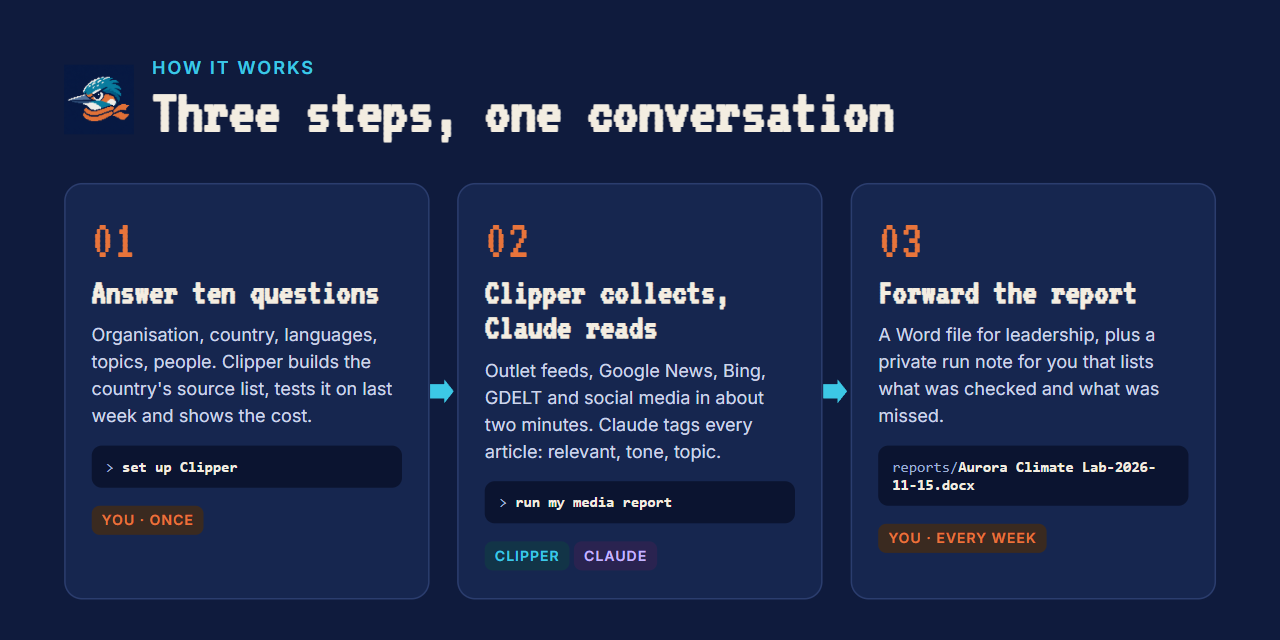
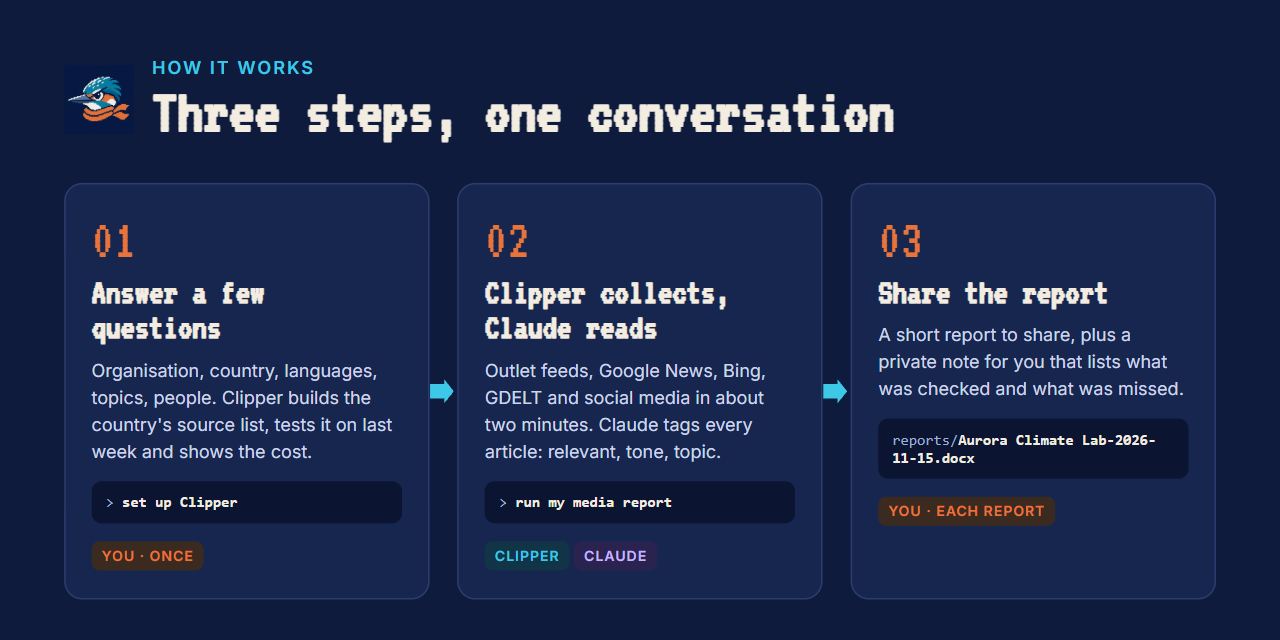
One report format for everyone; README updated for 1.5
- Setup no longer asks who reads the report: one format (figures first, a
  short summary, coverage by topic), as in the baseline report
- Foreign outlets show their country in the heading
- README: sitemaps in the source list, longer reports keep earlier weeks,
  workflow graphic without the readers question or leadership wording

Changed region(s): [[0.0625, 0.4375, 0.3125, 0.9062], [0.6875, 0.4375, 0.9375, 0.875]]

diff --git a/src/clipper/layout.py b/src/clipper/layout.py
@@ -314,6 +314,9 @@ def build(d: ReportData, guard=lambda s: s) -> list[Block]:
             return (best[1], -sum(len(u) for u in units), best[2])
 
         for outlet, units in sorted(by_heading.items(), key=order_key):
+            origin = where_from(units[0][0], d.tags[units[0][0].id], p, tiers)
+            if origin not in ("home", "unknown") and len({i.outlet for u in units for i in u}) == 1:
+                outlet = f"{outlet} ({countries.name(origin)})"
             blocks.append(Block("outlet", [Run(outlet, bold=True)]))
             units.sort(key=lambda u: u[0].published_at, reverse=True)
             blocks += [_bullet(u, d, guard) for u in units]

diff --git a/tests/test_plugin_layout.py b/tests/test_plugin_layout.py
@@ -94,7 +94,7 @@ def test_setup_reports_english_only_and_windows_quoting():
 def test_setup_is_a_wizard_with_clickable_questions():
     text = (ROOT / "skills" / "setup" / "SKILL.md").read_text(encoding="utf-8")
     assert "question tool" in text and "Never comment between screens" in text
-    for n in range(16):
+    for n in [n for n in range(16) if n != 10]:  # screen 10 (who reads it) was removed: one report for all
         assert f"**Screen {n}:" in text, n
     assert "Social media" in text and "clipper sources" in text
     assert (ROOT / "examples" / "sample-report.md").is_file()

diff --git a/tests/test_render.py b/tests/test_render.py
@@ -406,3 +406,9 @@ def test_social_posts_are_counted_apart_and_unknown_countries_said_so(tmp_path, 
     assert "- **Coverage:** 1 article in 1 outlet" in md
     assert "- **Social media:** 1 post by 1 account." in md
     assert "outlet country unknown for 1 article" in md
+
+
+def test_foreign_outlet_heading_names_its_country(tmp_path, store, p):
+    run, ids = make_run(store, [mk(1, outlet="Kypros News")], [dict(tag(), outlet_country="CY")])
+    render_report(store, run, draft_with(tmp_path, "Fine."), p, tmp_path)
+    assert "**Kypros News (Cyprus)**" in report_md(tmp_path, p)

diff --git a/skills/setup/SKILL.md b/skills/setup/SKILL.md
@@ -36,14 +36,14 @@ Quote every path. Every command prints one JSON object on standard output; parse
 > - **Think tanks, research centres, government and institutional sites**
 > - **Social media**: LinkedIn, X, Instagram, Facebook, YouTube, Reddit
 >
-> Setup is 10 short questions. At the end I build your source list, test it on last week's news and show you the cost. Nothing runs until you approve it.
+> Setup is 9 short questions. At the end I build your source list, test it on last week's news and show you the cost. Nothing runs until you approve it.
 
 Options: "Start setup" · "What does a report look like?" (show `examples/sample-report.md` from the plugin root, then show Screen 0 again).
 
 **Screen 1: Organisation.** "**Which organisation should I watch?**" → "I'll search for this name, its translations and its acronym in every language you pick." Free text.
 
 **Screen 1b: Existing project (only if one exists).** Right after Screen 1, silently run `clipper projects`. If a project with that name (or a close variant of it) is listed, read its `project.yaml` in the listed `folder`, and if `sources.yaml` exists there, count its outlets. Then ask: "**You already have a Clipper project for {organisation}.**" → "Updating keeps your past reports and history; starting fresh moves the old files into a backup folder." Options: "Update it" · "Start fresh".
-- **Update it** (update mode): go through Screens 2–10 as usual, but take every default from the existing `project.yaml`: pre-tick or pre-fill what is already there (its country, languages, names in `subject`, programmes, spokespeople, contexts, exclusions, social platforms, frequency, readers) and keep its names exactly as written (for example the official full name) rather than generating new ones; you may add suggestions next to them. Do not run `init` in "Build the plan": edit the existing `project.yaml` in place. On Screen 11, if `sources.yaml` exists, first ask "**Keep your {n} sources?**" with options "Keep my list" (skip the research and go straight to the summary screen, using `clipper sources --project "<name>"` for the counts, and run it with `--tiers` only if the kinds of sources changed on Screen 7) · "Rebuild it" (do Screen 11 as usual).
+- **Update it** (update mode): go through Screens 2–9 as usual, but take every default from the existing `project.yaml`: pre-tick or pre-fill what is already there (its country, languages, names in `subject`, programmes, spokespeople, contexts, exclusions, social platforms, frequency, readers) and keep its names exactly as written (for example the official full name) rather than generating new ones; you may add suggestions next to them. Do not run `init` in "Build the plan": edit the existing `project.yaml` in place. On Screen 11, if `sources.yaml` exists, first ask "**Keep your {n} sources?**" with options "Keep my list" (skip the research and go straight to the summary screen, using `clipper sources --project "<name>"` for the counts, and run it with `--tiers` only if the kinds of sources changed on Screen 7) · "Rebuild it" (do Screen 11 as usual).
 - **Start fresh**: carry on as for a new project, and in "Build the plan" add `--replace` to `clipper init`. Do not mention the backup folder unless the user asks.
 
 **Screen 2: Country.** "**Which country's media?**" → "At the end of setup I'll build a list of {country}'s news outlets, think tanks and institutions, and show it to you for approval." Offer up to 3 likely countries as options; the user can type another. Note its two-letter ISO code (FR, KE, BR) yourself; never show codes.
@@ -71,7 +71,7 @@ Store the picks in `social` as `linkedin`, `x`, `instagram`, `facebook`, `youtub
 
 **Screen 9: How often.** "**How often do you want the report?**" → "Each report covers everything since the last one." Options: "Weekly, on Monday morning" (default) · "Daily" · "Monthly".
 
-**Screen 10: Who reads it.** "**Who will read the report?**" → "This sets how long the summary is. Reports are in English for now." Options: "Just me" · "My team" · "Management" · "Clients or partners". Store the answer in `readers`. Always set `report_language` to `en`.
+There is one report format for everyone (figures first, a short summary, then coverage by topic), so setup never asks who reads it or offers other kinds of report. Reports are in English for now. Always set `report_language` to `en` and leave `readers` empty.
 
 ## Build the plan (silent)
 

diff --git a/README.md b/README.md
@@ -167,7 +167,6 @@ Setup asks one question per screen. You answer with a click, and each screen say
 | **Kinds of sources** | National, regional, agencies, broadcasters, trade press, think tanks, institutions |
 | **Social media** | Which platforms to watch |
 | **How often** | Daily, weekly or monthly, or only when you ask |
-| **Who reads it** | You, your team, management, or clients and partners |
 
 Then Clipper builds and checks your source list, tests the searches, shows the cost, and offers to set a schedule. If you already have a project, setup asks whether to update it (your answers are filled in for you) or to start fresh.
 
@@ -235,7 +234,7 @@ Clipper never depends on a single route. If one fails, the others carry on.
 
 | Route | What it does | Cost |
 |---|---|---|
-| **Your source list** | Reads every outlet on your checked list. Outlets without a news feed are searched directly. | Free |
+| **Your source list** | Reads every outlet on your checked list: its news feed for recent days, and its sitemap (the site's own list of articles) for older weeks or when there is no feed. A search fills only what both miss. | Free |
 | **Google News** | Searches your names, topics and people in every language you chose | Free |
 | **Bing News** | A second, independent search, so one blocked route never means an empty report | Free |
 | **GDELT** | A global news database, searched by country | Free |
@@ -332,7 +331,6 @@ report_groups:               # optional: topics that share a heading
 country: IT                  # two-letter country code
 languages: [it, en]
 frequency: weekly            # daily | weekly | monthly
-readers: Management
 report_language: en
 caps:                        # optional limits
   max_candidates: 180
@@ -359,7 +357,7 @@ Any country. You choose the country and the languages its press writes in, and s
 English for now. Searches run in every language you choose, and the original headlines are kept.
 
 **What period does a report cover?**
-Everything since the last report, or any period you ask for.
+Everything since the last report, or any period you ask for. A longer report, such as a month, includes everything already found for those weeks.
 
 **Does it read paywalled articles?**
 No. They're counted and marked "subscribers only".

diff --git a/docs/setup-wizard.md b/docs/setup-wizard.md
@@ -18,7 +18,7 @@ What the user sees, screen by screen. Rules for every screen:
 > - **Think tanks, research centres, government and institutional sites**
 > - **Social media**: LinkedIn, X, Instagram, Facebook, YouTube, Reddit
 >
-> Setup is 10 short questions. At the end I build your source list, test it on last week's news and show you the cost. Nothing runs until you approve it.
+> Setup is 9 short questions. At the end I build your source list, test it on last week's news and show you the cost. Nothing runs until you approve it.
 
 Options: **Start setup** · **What does a report look like?** (shows the example report, then returns here)
 
@@ -96,15 +96,6 @@ Options: **Set it up now** · **Skip these platforms**
 > → Each report covers everything since the last one.
 
 Options: **Weekly, on Monday morning** (default) · **Daily** · **Monthly**.
-
-## Screen 10: Who reads it
-
-> **Who will read the report?**
-> → This sets how long the summary is. Reports are in English for now.
-
-Options: **Just me** · **My team** · **Management** · **Clients or partners**.
-
----
 
 ## Screen 11: Your source list (Clipper works)
 
